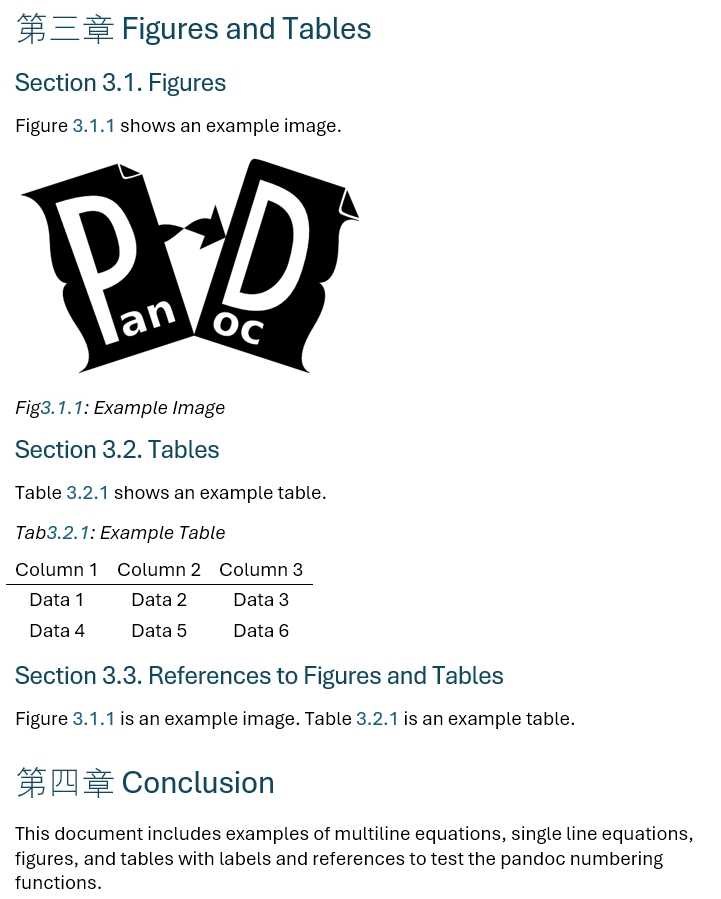
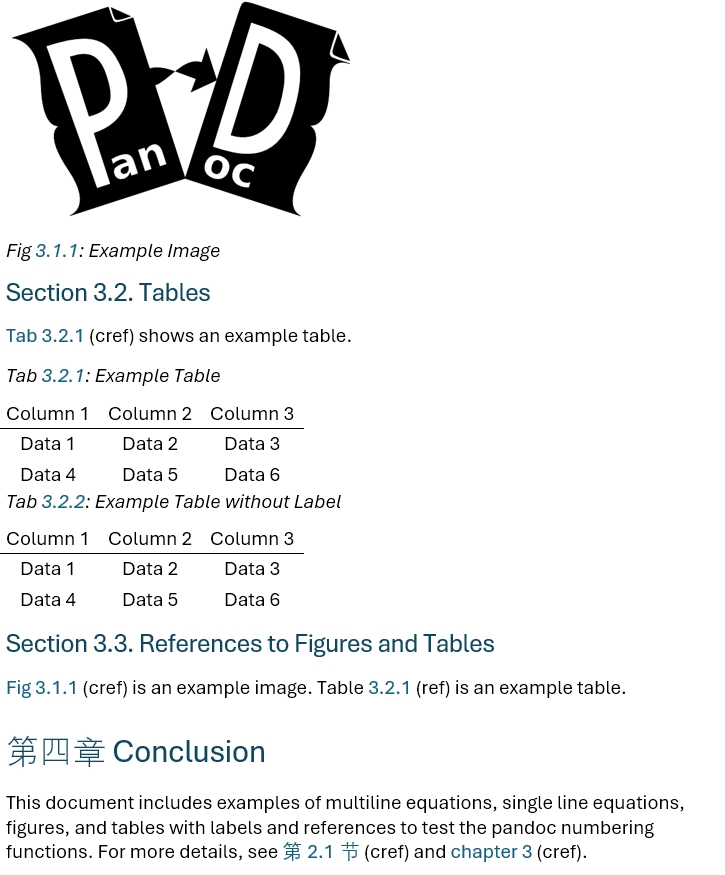
new examples

Changed region(s): [[0.0, 0.0, 0.9459, 0.9874]]

diff --git a/README.md b/README.md
@@ -144,29 +144,30 @@ The results are shown as follows:
 
 ## Customized Metadata
 
-In the following example, we only want to set the prefix of figures and tables as "Fig" and "Tab" respectively and reset all the numbering at the second-level section. *Only for the purpose of demonstration*, we also want to use Chinese non-arabic numbers for the first level sections as "第一章" and English numbers for the second level sections as "Section 1.1.".
+In the following example, we custom the following (maybe silly) items *only for the purpose of demonstration*:
+- Use all prefixes as "Fig", "Tab", "Eq" respectively.
+- At the beginning of sections, use Chinese numbers "第一章" for the first level sections and English numbers "Section 1.1" for the second level sections.
+- When referred to, use, in turn, "Chapter 1", "第1.1节" etc.
 
 **In this case, please note that the `lang_num.py` file must be also included in the same directory as the filter.**
 
-Directly in the command line:
+Run the following command with corresponding metadata in a `metadata.yaml` file (**recommended**):
 
 ```bash
-pandoc -o output.docx -F pandoc-tex-numbering.py -M figure-prefix="Fig" -M table-prefix="Tab" -M number-reset-level=2 -M non-arabic-numbers=true -M section-format-1="第{h1_zh}章" -M section-format-2="Section {h1}.{h2}." test.tex
-```
-
-Or run the following command with corresponding metadata in a `metadata.yaml` file (**recommended**):
-
-```bash
-pandoc -o output.docx -F pandoc-tex-numbering.py --metadata-file metadata.yaml test.tex
+pandoc -o output.docx -F pandoc-tex-numbering.py --metadata-file test.yaml test.tex
 ```
 
 ```yaml
+# test.yaml
 figure-prefix: Fig
 table-prefix: Tab
+equation-prefix: Eq
 number-reset-level: 2
 non-arabic-numbers: true
-section-format-1: "第{h1_zh}章"
-section-format-2: "Section {h1}.{h2}."
+section-format-source-1: "第{h1_zh}章"
+section-format-source-2: "Section {h1}.{h2}."
+section-format-ref-1: "Chapter {h1}"
+section-format-ref-2: "第{h1}.{h2}节"
 ```
 
 The results are shown as follows:
